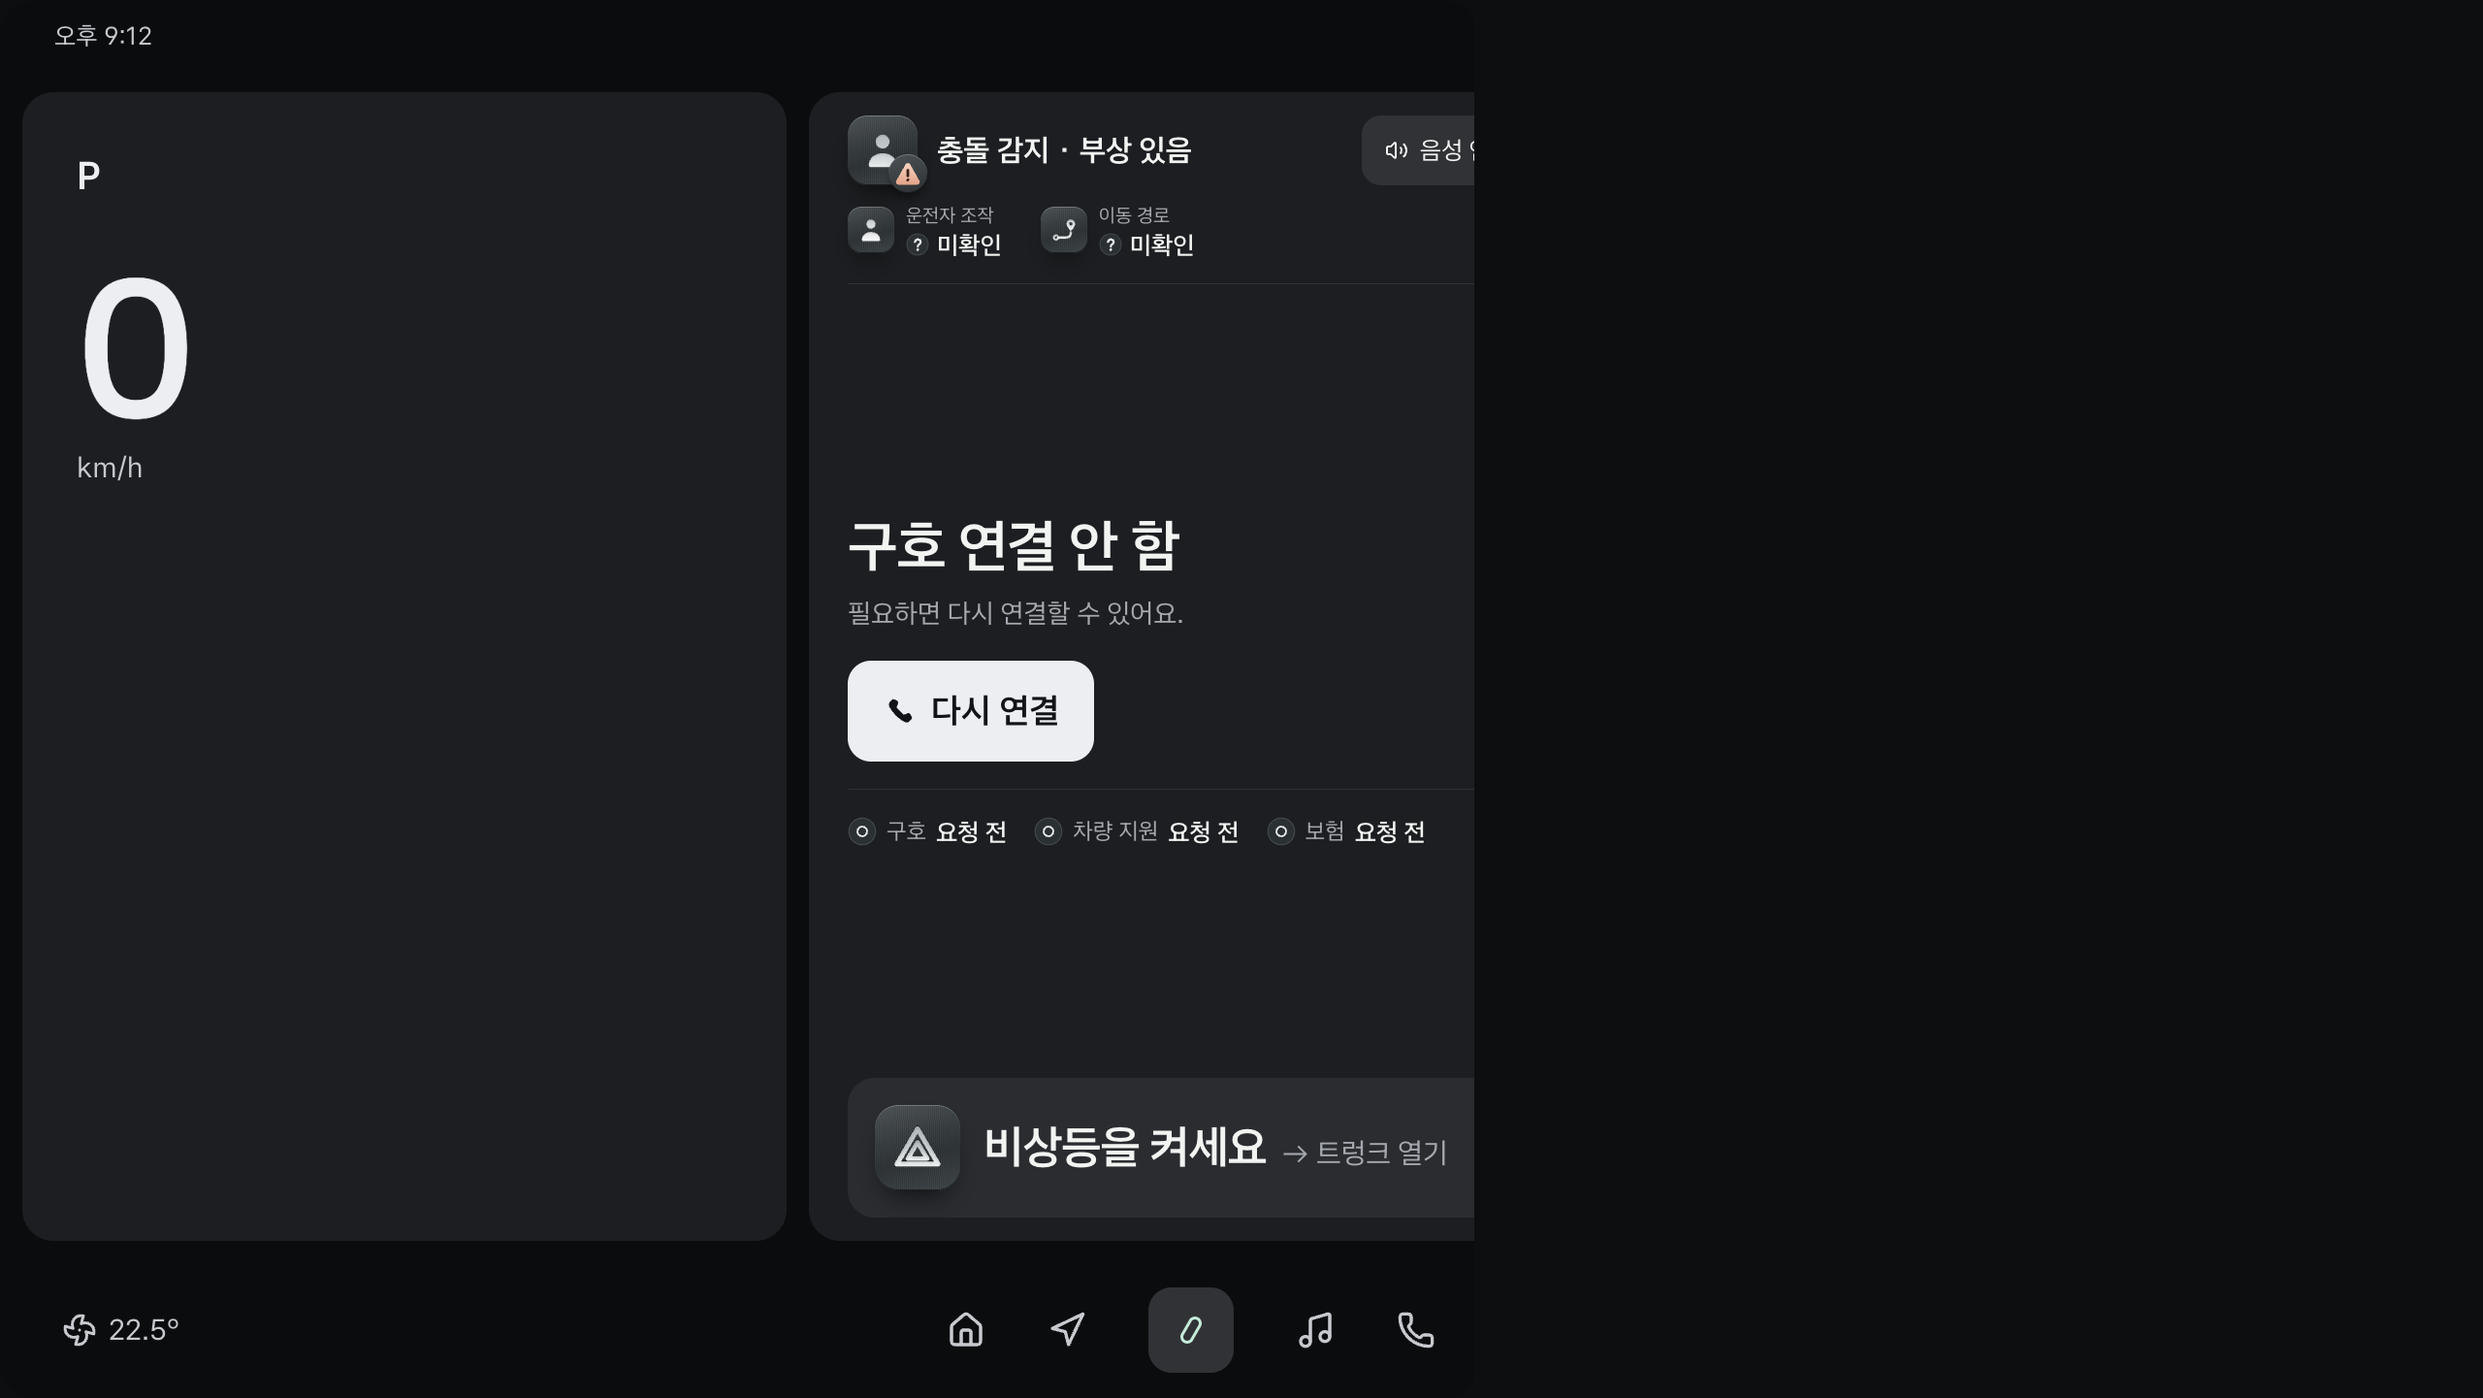
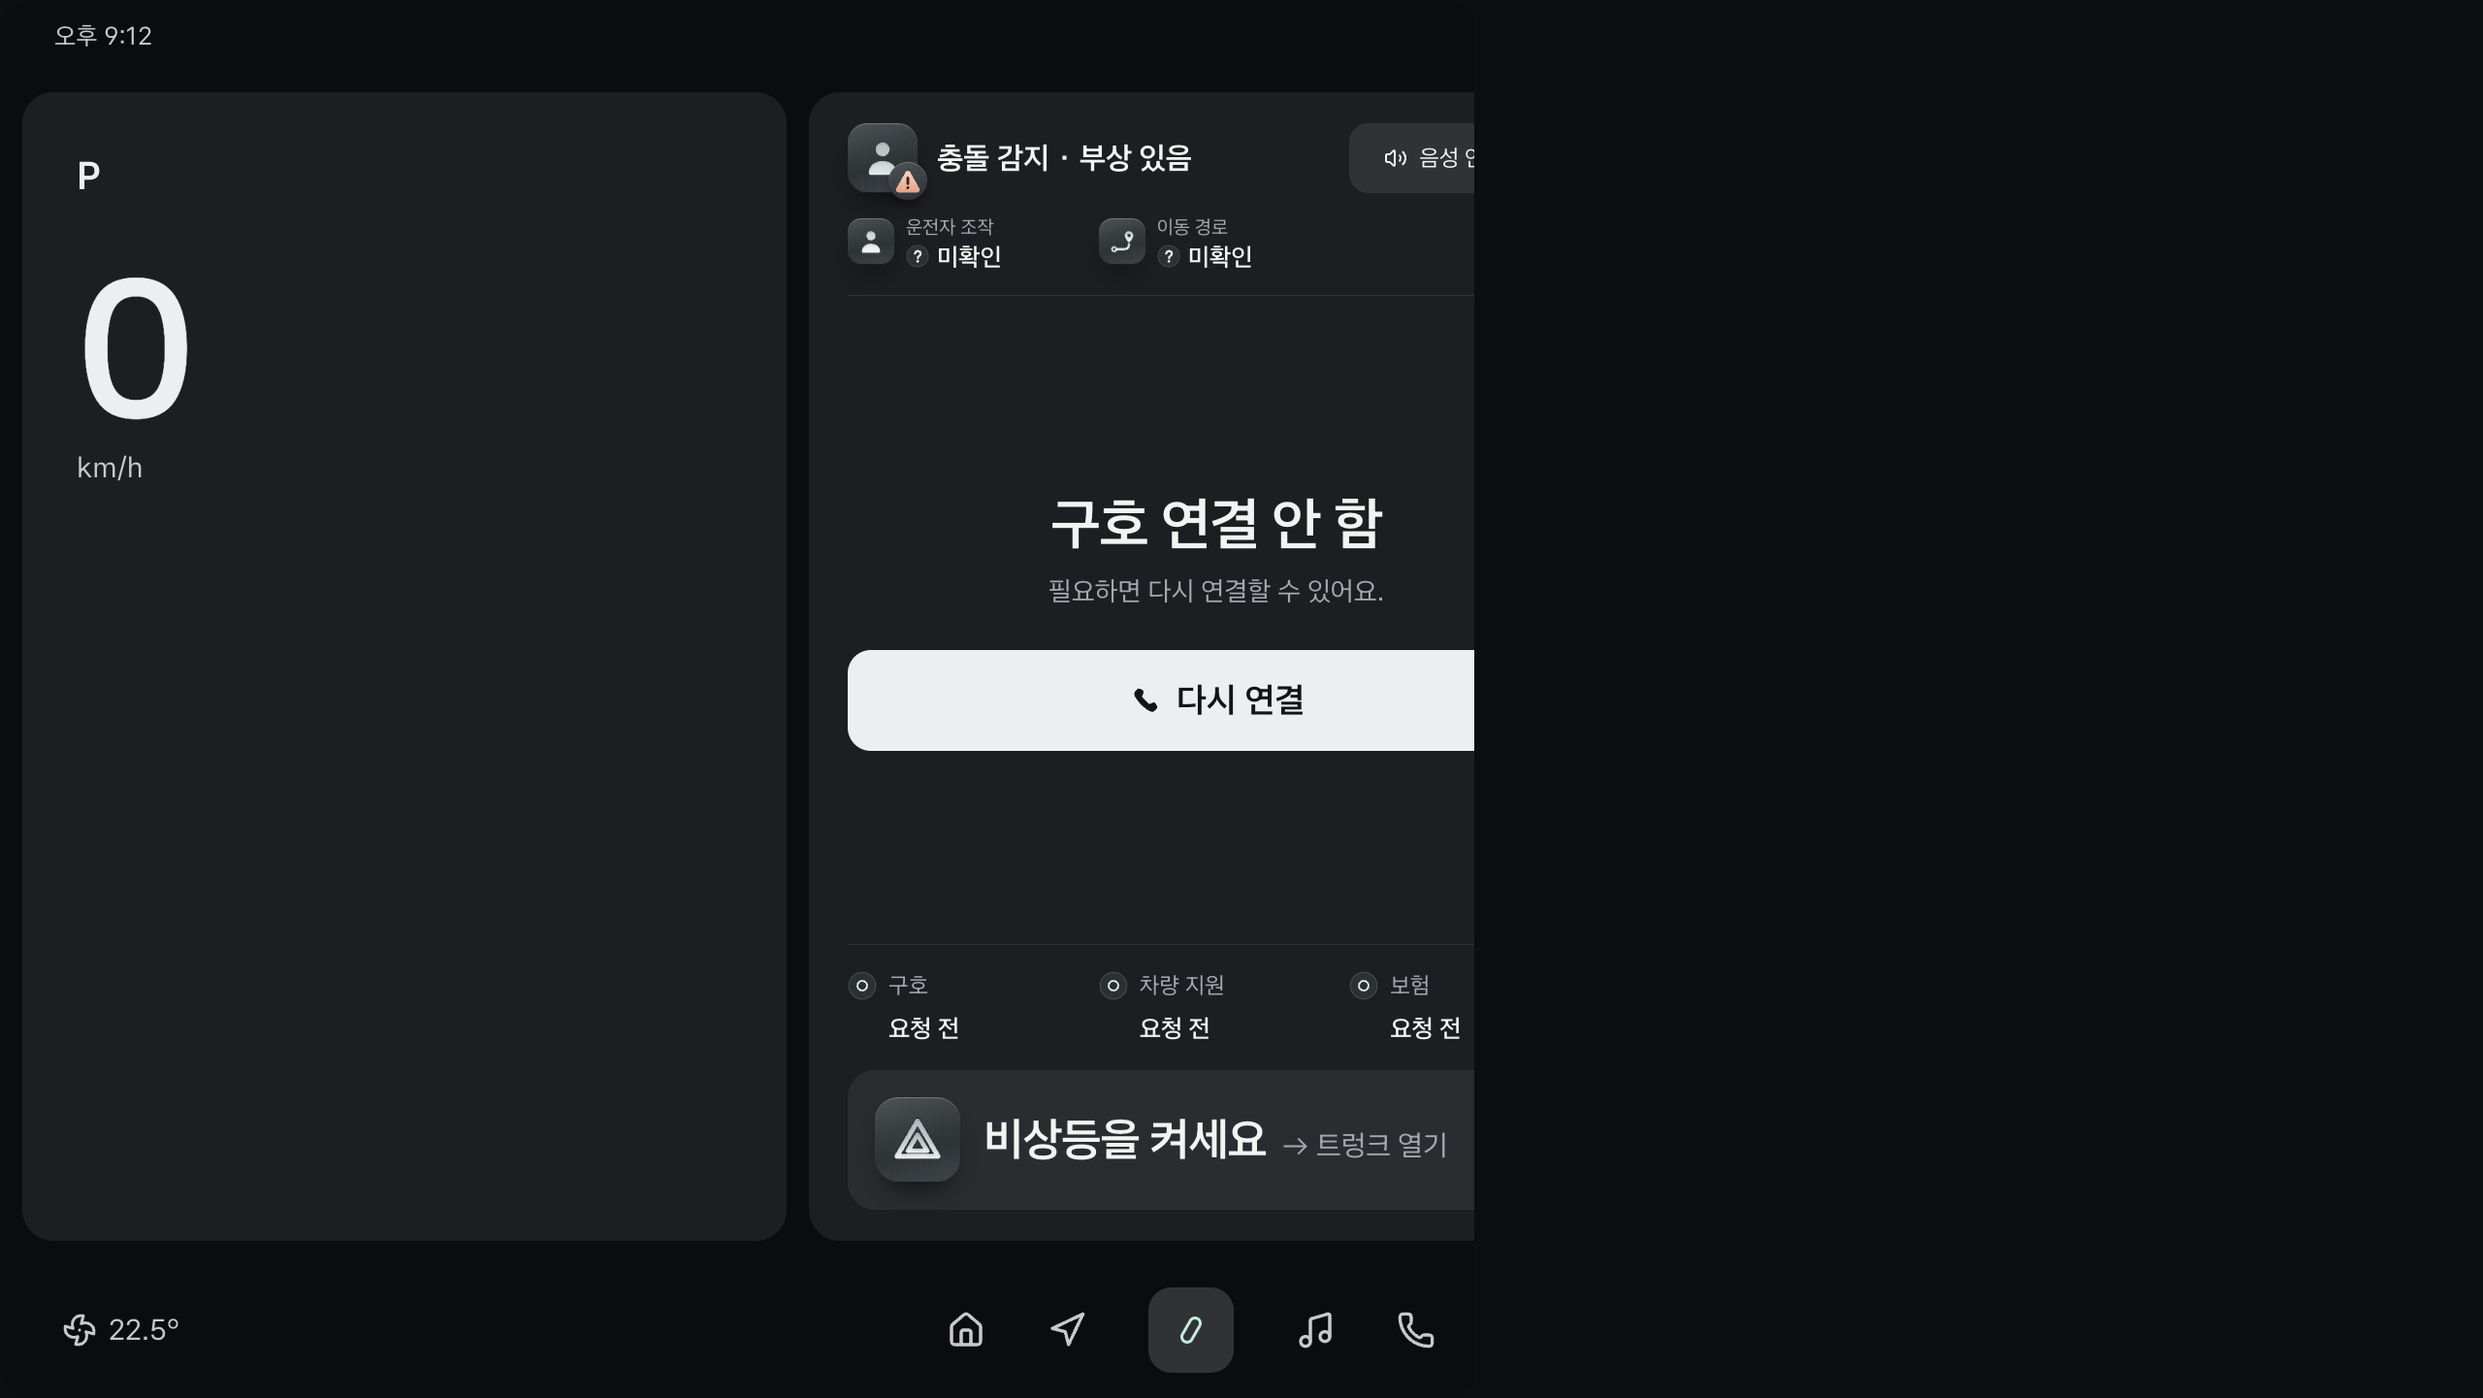
feat(web): snap the emergency app window to a three-column grid
Removing the header left the window sparse: the car slot took all
spare height and floated its content in the middle, the agency row
hung between it and the self card, and each block had its own left
edge.

Every horizontal arrangement now uses one three-column grid with a
16 px gap inside 40 px side margins. The detected line sits at the
top, the agency row and self card dock to the bottom, and the car
slot fills the middle with a 280 px ring, title and actions stacked
on the centre line. Settled scenes without a ring still leave room
in the middle; what should fill it is left open.

diff --git a/prototype/web/src/emergency/emergency.css b/prototype/web/src/emergency/emergency.css
@@ -42,28 +42,30 @@
 .pleos-app-mark { width: 14px; height: 30px; border: 3px solid var(--primary); border-radius: 8px; transform: rotate(30deg); }
 
 /* 사고 대응 app 창. 글자는 Pleos type scale(Headline 60·48, Title 40·36·32, Body 30·28·26, Label 24·20)만 쓴다. */
-.emergency-screen { --urgent: #FF4C28; --progress: #FFB340; --pleos-line: #313236; --pleos-subtle: #A4A8AE; position: absolute; left: 834px; top: 94px; width: 840px; height: 1184px; display: flex; flex-direction: column; padding: 0 40px 24px; background: #1D1E21; color: var(--foreground); border-radius: 32px; overflow: hidden; }
-.emergency-voice-button { grid-column: 3; display: flex; align-items: center; gap: 12px; color: var(--foreground); background: var(--pleos-line); border: 0; border-radius: 20px; min-height: 72px; padding: 0 24px; font-size: 26px; }
+.emergency-screen { --urgent: #FF4C28; --progress: #FFB340; --pleos-line: #313236; --pleos-subtle: #A4A8AE; position: absolute; left: 834px; top: 94px; width: 840px; height: 1184px; display: flex; flex-direction: column; padding: 32px 40px; background: #1D1E21; color: var(--foreground); border-radius: 32px; overflow: hidden; }
+.emergency-voice-button { display: flex; align-items: center; justify-content: center; gap: 12px; color: var(--foreground); background: var(--pleos-line); border: 0; border-radius: 20px; min-height: 72px; padding: 0 16px; font-size: 24px; }
 .emergency-voice-button:hover { background: #44464E; }
-.emergency-slot { display: flex; flex-direction: column; gap: 20px; padding: 28px 0; }
+.emergency-slot { display: flex; flex-direction: column; }
 /* 화면을 설명하는 글(칸 이름표·말머리·app 이름)은 두지 않는다. ① 은 작은 상황 줄, ② 는 가운데 큰 영역, ③ 은 따로 띄운 card 다. */
-.emergency-car { border-top: 1px solid var(--pleos-line); }
-.emergency-detected { display: grid; grid-template-columns: 72px minmax(0, 1fr) auto; align-items: center; gap: 16px 20px; padding: 24px 0; }
-.emergency-facts { grid-column: 1 / -1; }
+/* 창 안의 모든 가로 배치는 같은 3단 grid(간격 16)에 맞춘다. ① 은 위, 기관 상태와 ③ 은 아래에 붙이고 ② 가 가운데를 채운다. */
+.emergency-detected, .emergency-facts, .emergency-requests, .emergency-car-actions { display: grid; grid-template-columns: repeat(3, minmax(0, 1fr)); column-gap: 16px; }
+.emergency-detected { row-gap: 20px; align-items: center; padding-bottom: 24px; border-bottom: 1px solid var(--pleos-line); }
+.emergency-cue { grid-column: 1 / 3; display: flex; align-items: center; gap: 20px; min-width: 0; }
 .emergency-detected h2 { margin: 0; font-size: 32px; font-weight: 700; line-height: 1.25; letter-spacing: -.01em; }
 .metal-plate { background: var(--metal-plate); box-shadow: inset 0 1px 0 rgba(255,255,255,.24), inset 0 -1px 0 rgba(0,0,0,.55), 0 14px 28px -12px rgba(0,0,0,.75); }
 .emergency-symbol { position: relative; flex: none; display: grid; place-items: center; width: 72px; height: 72px; border-radius: 20px; }
 .emergency-symbol-state { position: absolute; bottom: -8px; right: -10px; display: grid; place-items: center; width: 40px; height: 40px; border-radius: 50%; background: linear-gradient(165deg, #4C5255, #2B3033); box-shadow: inset 0 1px 0 rgba(255,255,255,.22), inset 0 -1px 0 rgba(0,0,0,.55), 0 6px 12px -4px rgba(0,0,0,.7); }
-.emergency-facts { display: flex; flex-wrap: wrap; gap: 16px 40px; }
+.emergency-facts { grid-column: 1 / -1; row-gap: 16px; }
 .emergency-fact { display: grid; grid-template-columns: 48px auto; column-gap: 12px; align-items: center; }
 .emergency-fact-plate { grid-row: span 2; display: grid; place-items: center; width: 48px; height: 48px; border-radius: 14px; }
 .emergency-fact > span:not(.emergency-fact-plate) { font-size: 20px; color: var(--pleos-subtle); }
 .emergency-fact > strong { display: flex; align-items: center; gap: 8px; font-size: 26px; line-height: 1.2; font-weight: 600; }
-.emergency-car { flex: 1; justify-content: center; gap: 28px; }
-.emergency-car-main { display: flex; align-items: center; gap: 32px; }
+.emergency-car { flex: 1; min-height: 0; }
+.emergency-car-main { flex: 1; display: flex; flex-direction: column; align-items: center; justify-content: center; gap: 32px; text-align: center; }
+.emergency-car-main > :last-child { align-self: stretch; }
 /* B · 빛: 빛 번짐은 ring 에만 둔다. Button 은 그림자·gradient 없는 단색이다. */
-.emergency-ring { position: relative; flex: none; width: 200px; height: 200px; border-radius: 50%; background: radial-gradient(circle, #17181B 0 58%, #121315 59%); }
-.emergency-ring svg { display: block; overflow: visible; }
+.emergency-ring { position: relative; flex: none; width: 280px; height: 280px; border-radius: 50%; background: radial-gradient(circle, #17181B 0 58%, #121315 59%); }
+.emergency-ring svg { display: block; width: 100%; height: 100%; overflow: visible; }
 .emergency-ring circle { fill: none; stroke-linecap: round; }
 .emergency-ring .emergency-ring-track { stroke: rgba(255,255,255,.12); stroke-width: 16; stroke-dasharray: 2.4 6.815; stroke-linecap: butt; }
 .emergency-ring.is-decide .emergency-ring-track { stroke: rgba(255,76,40,.26); }
@@ -75,15 +77,18 @@
 .emergency-car-copy h1 { margin: 0; font-size: 60px; line-height: 1.2; font-weight: 800; letter-spacing: -.02em; }
 .emergency-car-copy h1:focus-visible { outline: 3px solid var(--primary); outline-offset: 8px; border-radius: 4px; }
 .emergency-car-copy p { margin: 12px 0 0; font-size: 28px; color: var(--pleos-subtle); }
-.emergency-car-actions { display: flex; gap: 16px; margin-top: 28px; }
+.emergency-car-actions { row-gap: 16px; margin-top: 40px; }
+.emergency-car-actions > .emergency-primary-action { grid-column: span 2; }
+.emergency-car-actions > .emergency-primary-action:only-child { grid-column: 1 / -1; }
 .emergency-primary-action { display: inline-flex; align-items: center; justify-content: center; gap: 14px; min-height: 104px; padding: 0 36px; border: 0; border-radius: 24px; color: #131417; background: #EDEEF2; font-size: 36px; font-weight: 700; }
 .emergency-primary-action:hover { background: #fff; }
 [data-urgent] .emergency-primary-action { color: #131417; background: var(--urgent); }
 [data-urgent] .emergency-primary-action:hover { background: color-mix(in srgb, var(--urgent) 88%, #fff); }
 .emergency-cancel { min-height: 104px; padding: 0 36px; border: 0; border-radius: 24px; background: var(--pleos-line); color: var(--foreground); font-size: 36px; font-weight: 700; }
 .emergency-cancel:hover { background: #44464E; }
-.emergency-requests { display: flex; flex-wrap: wrap; align-items: center; gap: 16px 28px; padding-top: 24px; border-top: 1px solid var(--pleos-line); }
-.emergency-request { display: flex; align-items: center; gap: 10px; }
+.emergency-requests { padding: 24px 0; border-top: 1px solid var(--pleos-line); }
+.emergency-request { display: grid; grid-template-columns: 30px minmax(0, 1fr); align-items: center; gap: 6px 12px; }
+.emergency-request strong { grid-column: 2; }
 .emergency-request-name { font-size: 24px; color: var(--pleos-subtle); }
 .emergency-request strong { font-size: 26px; font-weight: 600; }
 .emergency-self { flex: none; flex-direction: row; align-items: center; gap: 24px; padding: 28px; border-radius: 28px; background: #2A2C30; }

diff --git a/prototype/web/tests/emergency-urgent.spec.ts b/prototype/web/tests/emergency-urgent.spec.ts
@@ -106,6 +106,57 @@ test('screen_has_no_meta_labels', async ({ page }) => {
   }
 })
 
+// 창 배치: 바깥 여백 좌우 40·위아래 32, 3단 grid(간격 16). 값은 원래 크기(840 × 1184) px 이다.
+const WINDOW = { width: 840, height: 1184, side: 40, edge: 32, gap: 16 }
+const column = (index: number) => {
+  const width = (WINDOW.width - 2 * WINDOW.side - 2 * WINDOW.gap) / 3
+  const x = WINDOW.side + index * (width + WINDOW.gap)
+  return { x, right: x + width }
+}
+type Rect = { x: number; right: number; y: number; bottom: number }
+const rects = (page: import('@playwright/test').Page, selectors: Record<string, string>) => page.locator('.emergency-screen').evaluate((screen, selectors) => {
+  const box = screen.getBoundingClientRect()
+  const scale = box.width / 840
+  return Object.fromEntries(Object.entries(selectors).map(([name, selector]) => [name, [...screen.querySelectorAll(selector)].map(node => {
+    const rect = node.getBoundingClientRect()
+    return { x: (rect.left - box.left) / scale, right: (rect.right - box.left) / scale, y: (rect.top - box.top) / scale, bottom: (rect.bottom - box.top) / scale }
+  })]))
+}, selectors) as Promise<Record<string, Rect[]>>
+const spans = (rect: Rect, from: number, to: number, name: string) => {
+  expect(Math.abs(rect.x - column(from).x), `${name} left`).toBeLessThan(1)
+  expect(Math.abs(rect.right - column(to).right), `${name} right`).toBeLessThan(1)
+}
+
+test('window_content_snaps_to_three_columns', async ({ page }) => {
+  await page.goto('/?study=emergency&scenario=SC01&scene=initial')
+  await expect(page.locator('[data-countdown]')).toBeVisible()
+  const box = await rects(page, { voice: '.emergency-voice-button', facts: '.emergency-fact', primary: '.emergency-car .emergency-primary-action', cancel: '.emergency-cancel', requests: '[data-request]' })
+  spans(box.voice[0], 2, 2, 'voice')
+  box.facts.forEach((fact, index) => spans(fact, index, index, `fact ${index}`))
+  spans(box.primary[0], 0, 1, '지금 연결')
+  spans(box.cancel[0], 2, 2, '취소')
+  expect(box.requests).toHaveLength(3)
+  box.requests.forEach((request, index) => spans(request, index, index, `request ${index}`))
+  await page.goto('/?study=emergency&scenario=SC05&scene=initial')
+  await expect(page.locator('[data-slot="car"]')).toBeVisible()
+  spans((await rects(page, { primary: '.emergency-car .emergency-primary-action' })).primary[0], 0, 2, 'single action')
+})
+
+test('bands_dock_to_window_edges_and_stage_fills_the_middle', async ({ page }) => {
+  await page.goto('/?study=emergency&scenario=SC01&scene=initial')
+  await expect(page.locator('[data-countdown]')).toBeVisible()
+  const box = await rects(page, { detected: '[data-slot="detected"]', ring: '.emergency-ring', actions: '.emergency-car-actions', requests: '.emergency-requests', self: '[data-slot="self"]' })
+  const [detected, ring, actions, requests, self] = [box.detected[0], box.ring[0], box.actions[0], box.requests[0], box.self[0]]
+  expect(Math.abs(detected.y - WINDOW.edge), '① top').toBeLessThan(1)
+  expect(Math.abs(self.bottom - (WINDOW.height - WINDOW.edge)), '③ bottom').toBeLessThan(1)
+  expect(self.y - requests.bottom, 'agency row sits on ③').toBeLessThanOrEqual(24)
+  expect(Math.abs((ring.x + ring.right) / 2 - WINDOW.width / 2), 'ring centred').toBeLessThan(1)
+  const above = ring.y - detected.bottom
+  const below = requests.y - actions.bottom
+  expect(Math.abs(above - below), 'stage centred').toBeLessThan(2)
+  expect(Math.max(above, below), 'no void').toBeLessThanOrEqual(80)
+})
+
 test('self_card_says_now_with_the_action_glyph', async ({ page }) => {
   for (const { scenario, scene } of scenes) {
     if (!scene.self_action) continue

diff --git a/prototype/web/src/emergency/EmergencyStudy.tsx b/prototype/web/src/emergency/EmergencyStudy.tsx
@@ -211,8 +211,8 @@ export function EmergencyStudy() {
           <GlyphDefs />
           {satin && <SatinSurface intensity={surfaceIntensity} onStatus={setSurfaceStatus} />}
           <section className="emergency-slot emergency-detected" data-slot="detected" aria-label="핵심 상황">
-            <div className="emergency-symbol metal-plate" aria-hidden="true"><Glyph name={glyphFor.cue(scene.cue.symbol)} depth="deep" size={48} /><span className="emergency-symbol-state"><StatusMark tone={scene.cue.status} size={28} /></span></div>
-            <h2 className={`tone-${scene.cue.status}`}>{scenario.presentation.detected} · {scene.cue.label}</h2>
+            <div className="emergency-cue"><div className="emergency-symbol metal-plate" aria-hidden="true"><Glyph name={glyphFor.cue(scene.cue.symbol)} depth="deep" size={48} /><span className="emergency-symbol-state"><StatusMark tone={scene.cue.status} size={28} /></span></div>
+            <h2 className={`tone-${scene.cue.status}`}>{scenario.presentation.detected} · {scene.cue.label}</h2></div>
             <button onClick={playVoice} className="emergency-voice-button">{voiceState === 'speaking' ? <VolumeX size={24} aria-hidden="true" /> : <Volume2 size={24} aria-hidden="true" />}{voiceState === 'speaking' ? '음성 안내 중지' : '음성 안내 듣기'}</button>
             <div className="emergency-facts">{facts.filter(fact => scenario.presentation.visible_facts.includes(fact.id)).map(fact => <div key={fact.id} className={`emergency-fact tone-${fact.status}`} data-fact={fact.id}><span className="emergency-fact-plate metal-plate"><Glyph name={glyphFor.fact(fact.id)} depth="shallow" size={32} /></span><span>{fact.label}</span><strong><StatusMark tone={fact.status} size={24} />{fact.value}</strong></div>)}</div>
           </section>
